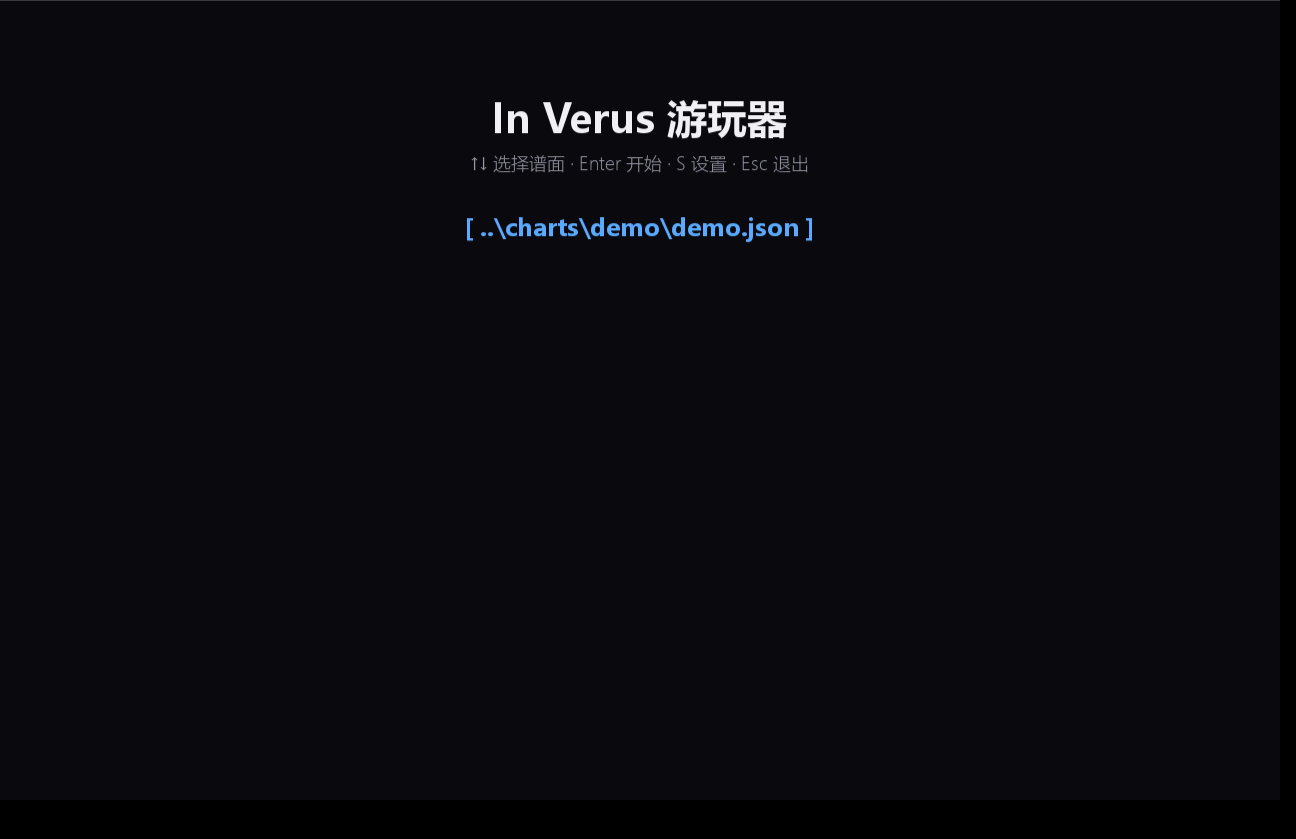
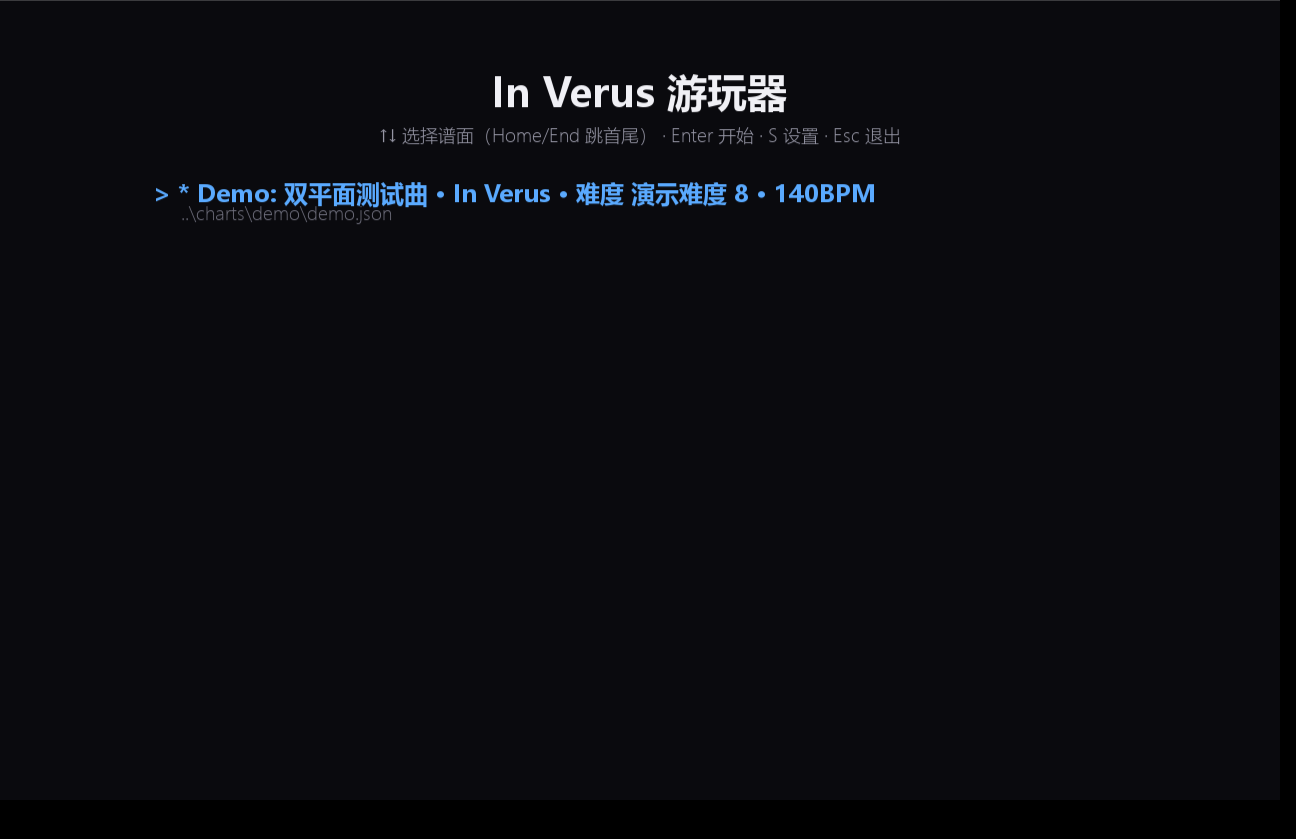
feat(player): 主界面显示元数据与最近打开；结算页加判定百分比明细
- 主界面每条谱面显示「标题 · 艺术家 · 难度 · 初始 BPM」+ 相对路径；
  条目多时窗口内翻页（↑↓ / Home / End）；最近打开的 8 张排最前并带 * 标记
  （PLAYER_SETTINGS.recent，去重 + 上限 8）
- 结算页在分数下方显示「最大连击」「判定数 N / 总数」以及每种判定占
  总判定数的百分比（按要求仍不显示总准度）
- 菜单里的 ▶/★ 换成字体一定有的 >/* （之前显示成方框）
- 测试 290 项全绿；截图刷新

Changed region(s): [[0.1235, 0.093, 0.7099, 0.3099]]

diff --git a/src/rhythm_editor/game/app.py b/src/rhythm_editor/game/app.py
@@ -102,6 +102,8 @@ class PlayerApp:
         self.audio = AudioPlayer()
         self.root = os.path.dirname(os.path.dirname(os.path.dirname(os.path.abspath(__file__))))
         self.paths = list(paths or []) or chart_files(self.root)
+        self._info_cache: dict = {}
+        self._rebuild_entries()
         self.selected = 0
         self.state = "menu"
         self.paused = False
@@ -172,6 +174,8 @@ class PlayerApp:
         elif event.key in (pygame.K_DOWN, pygame.K_UP) and self.paths:
             step = 1 if event.key == pygame.K_DOWN else -1
             self.selected = (self.selected + step) % len(self.paths)
+        elif event.key in (pygame.K_HOME, pygame.K_END) and self.paths:
+            self.selected = 0 if event.key == pygame.K_HOME else len(self.paths) - 1
         elif event.key in (pygame.K_RETURN, pygame.K_KP_ENTER) and self.paths:
             self._enter_loading()
         elif event.key == pygame.K_s:
@@ -185,9 +189,46 @@ class PlayerApp:
             return
         self.chart = chart
         self.chart_path = self.paths[self.selected]
+        self._remember_recent(self.chart_path)
         self.state = "loading"
         self.timer = 0.0
         self.message = ""
+
+    # ------------------------------------------------------------ 谱面列表
+    def _chart_info(self, path: str):
+        """谱面的 (标题, 艺术家, 难度名+等级, 初始 BPM)；读不出来就退回文件名。"""
+        info = self._info_cache.get(path)
+        if info is not None:
+            return info
+        try:
+            chart, _raw = load_chart(path)
+            meta = chart.metadata
+            info = (
+                meta.title or os.path.basename(path),
+                meta.artist or "未知艺术家",
+                f"{meta.difficulty_name} {meta.difficulty_level}".strip(),
+                chart.timing.bpm_at(0.0),
+            )
+        except Exception:                       # pragma: no cover - 依赖外部文件
+            info = (os.path.basename(path), "（无法读取）", "-", 0.0)
+        self._info_cache[path] = info
+        return info
+
+    def _rebuild_entries(self) -> None:
+        """最近打开的谱面排在前面，其余按路径排序。"""
+        recent = [p for p in self.settings.recent if p in self.paths]
+        rest = [p for p in self.paths if p not in recent]
+        self.paths = recent + rest
+
+    def _remember_recent(self, path: str) -> None:
+        recent = [p for p in self.settings.recent if p != path]
+        recent.insert(0, path)
+        self.settings.recent = recent[:8]
+        psettings.save_settings(self.settings)
+        chosen = self.paths[self.selected] if self.paths else path
+        self._rebuild_entries()
+        if chosen in self.paths:
+            self.selected = self.paths.index(chosen)
 
     # ------------------------------------------------------------ 设置
     SETTING_ROWS = (
@@ -421,15 +462,32 @@ class PlayerApp:
             self._draw_result()
 
     def _draw_menu(self) -> None:
-        self.center_text("In Verus 游玩器", 90, self.f_big, WHITE)
-        self.center_text("↑↓ 选择谱面 · Enter 开始 · S 设置 · Esc 退出", 150, self.f_small, DIM)
+        self.center_text("In Verus 游玩器", 64, self.f_big, WHITE)
+        self.center_text("↑↓ 选择谱面（Home/End 跳首尾） · Enter 开始 · S 设置 · Esc 退出", 122, self.f_small, DIM)
         if not self.paths:
             self.center_text("没有找到谱面（先往 charts/ 放一张 .json）", 260, self.f_mid, DIM)
-        for index, path in enumerate(self.paths[:14]):
-            name = os.path.relpath(path, self.root)
+        # 只显示选中项附近的若干行（谱面很多时翻页显示）
+        window = 9
+        start = max(0, min(self.selected - window // 2, max(0, len(self.paths) - window)))
+        for offset, index in enumerate(range(start, min(len(self.paths), start + window))):
+            path = self.paths[index]
+            title, artist, difficulty, bpm = self._chart_info(path)
             chosen = index == self.selected
-            label = ("[ " + name + " ]") if chosen else ("  " + name + "  ")
-            self.center_text(label, 210 + index * 30, self.f_mid, ACCENT if chosen else DIM)
+            color = ACCENT if chosen else DIM
+            marker = "> " if chosen else "  "
+            star = "* " if path in self.settings.recent else ""
+            self.text(
+                f"{marker}{star}{title} · {artist} · 难度 {difficulty} · {bpm:.0f}BPM",
+                (self.w * 0.12, 176 + offset * 46),
+                self.f_mid,
+                color,
+            )
+            self.text(
+                os.path.relpath(path, self.root),
+                (self.w * 0.12 + 28, 200 + offset * 46),
+                self.f_small,
+                (110, 110, 124) if chosen else (86, 86, 96),
+            )
         if self.message:
             self.center_text(self.message, self.h - 70, self.f_small, (240, 120, 120))
 
@@ -755,10 +813,18 @@ class PlayerApp:
         counts = self.judge.counts
         self.text(f"分数：{self.judge.score}", (half + 46, 140), self.f_big, (255, 226, 120))
         self.text(f"最大连击：{self.judge.max_combo}", (half + 46, 196), self.f_mid, WHITE)
+        total = max(1, self.judge.total_notes)
+        self.text(
+            f"判定数：{self.judge.judged_notes} / {self.judge.total_notes}",
+            (half + 46, 226),
+            self.f_small,
+            DIM,
+        )
         for index, grade in enumerate(GRADES):
+            share = counts[grade] / total * 100.0
             self.text(
-                f"{grade}：{counts[grade]}",
-                (half + 46, 250 + index * 34),
+                f"{grade}：{counts[grade]}（{share:.1f}%）",
+                (half + 46, 258 + index * 34),
                 self.f_mid,
                 GRADE_COLORS[grade],
             )

diff --git a/src/rhythm_editor/game/settings.py b/src/rhythm_editor/game/settings.py
@@ -30,6 +30,7 @@ class PlayerSettings:
     unbounded_mouse: bool = False         # 无界鼠标：实际位置即判定位置
     music_volume: float = 1.0
     hit_volume: float = 0.6
+    recent: List[str] = field(default_factory=list)     # 最近打开的谱面（最多 8 条）
 
     def normalize(self) -> None:
         self.keys = [
@@ -45,6 +46,12 @@ class PlayerSettings:
         self.music_volume = min(1.0, max(0.0, float(self.music_volume)))
         self.hit_volume = min(1.0, max(0.0, float(self.hit_volume)))
         self.player_name = (self.player_name or "Player")[:24]
+        unique: List[str] = []
+        for path in self.recent:
+            text = str(path)
+            if text and text not in unique:
+                unique.append(text)
+        self.recent = unique[:8]
 
     def to_dict(self) -> Dict[str, object]:
         self.normalize()
@@ -64,6 +71,7 @@ class PlayerSettings:
             unbounded_mouse=bool(data.get("unbounded_mouse", False)),
             music_volume=float(data.get("music_volume", 1.0)),
             hit_volume=float(data.get("hit_volume", 0.6)),
+            recent=list(data.get("recent", [])),  # type: ignore[arg-type]
         )
         obj.normalize()
         return obj

diff --git a/tests/test_game_app.py b/tests/test_game_app.py
@@ -116,6 +116,18 @@ class PlayerAppSmokeTests(unittest.TestCase):
         app._toggle_pause()
         self.assertFalse(app.paused)
 
+    def test_chart_list_shows_metadata_and_recent(self) -> None:
+        """主界面列出元数据；打开过的谱面进入「最近」并排在前面。"""
+        app = self.app
+        path = app.paths[0]
+        title, artist, difficulty, bpm = app._chart_info(path)
+        self.assertTrue(title)
+        self.assertGreater(bpm, 0.0)
+        app._enter_loading()
+        self.assertEqual(app.settings.recent[0], path)
+        app._draw_menu()          # 列表 + 元数据渲染不抛异常
+        self.assertEqual(app.paths[0], path, "最近打开应排在前面")
+
 
 if __name__ == "__main__":
     unittest.main()

diff --git a/tests/test_game_settings.py b/tests/test_game_settings.py
@@ -53,6 +53,15 @@ class PlayerSettingsTests(unittest.TestCase):
                 handle.write("{ 坏文件")
             self.assertEqual(PS.load_settings(path).player_name, "Player")
 
+    def test_recent_list_is_unique_and_capped(self) -> None:
+        s = PS.PlayerSettings(recent=[f"chart{i}.json" for i in range(12)])
+        s.normalize()
+        self.assertEqual(len(s.recent), 8)
+        self.assertEqual(s.recent[0], "chart0.json")
+        s2 = PS.PlayerSettings(recent=["a.json", "a.json", "", "b.json"])
+        s2.normalize()
+        self.assertEqual(s2.recent, ["a.json", "b.json"])
+
 
 if __name__ == "__main__":
     unittest.main()

diff --git a/docs/VERIFICATION.md b/docs/VERIFICATION.md
@@ -113,7 +113,7 @@ python tools/check_audio.py
 
 | 项目 | 命令 | 结果 |
 | --- | --- | --- |
-| 单元测试（含 Tk 画布冒烟测试、应用级测试与游玩器测试） | `python -m unittest discover -s tests -t .` | Ran 288 tests — **OK** |
+| 单元测试（含 Tk 画布冒烟测试、应用级测试与游玩器测试） | `python -m unittest discover -s tests -t .` | Ran 290 tests — **OK** |
 | 需求验收清单 | `python tools/acceptance.py` | 18 项全部 `[OK ]`，结论：全部通过（含游玩器 4 项） |
 | 音频后端 | `python tools/check_audio.py` | 9 项全部 `[OK ]`（pygame.mixer 真实播放，延迟补偿正确） |
 | 示例谱面生成 | `python run_editor.py --make-demo` | 生成 `charts/demo/demo.json`（6K 32 / 区域 3 / 滑键 6 / 点击按键 4 / 4 个速度组） |
@@ -209,8 +209,8 @@ python tools/check_audio.py
 | `tests/test_global_settings.py`（4 条） | **全局设置**：读写往返、损坏文件回退默认值、谱面文件不再包含 `editor` 段、老谱面的 `editor` 段只迁移一次 |
 | `tests/test_game_judge.py`（24 条） | 游玩器判定：EXACT/Exact/Near/Break 窗口、空敲无惩罚、一次按键只判一个、滑键吸附最好等级、空域半拍区间、长按“抬起事件 + 末 50ms 宽限（跨区间）”、多轨长按“所有行同时抬起才算抬起”、准度与分数公式、连击与最大连击 |
 | `tests/test_game_scene.py`（8 条） | 游玩器 3D 布局：1 单位 = 鼠标合法区宽 = 6K 中间四轨；鼠标平面高 0.4；两条判定线位置；近大远小；起点在屏幕上方 |
-| `tests/test_game_settings.py`（6 条） | 游玩器设置：默认键位、范围夹取、键位补齐、全局读写与损坏回退 |
-| `tests/test_game_app.py`（5 条） | 游玩器 GUI 冒烟（headless）：主界面 → 加载 → 游玩 → 结算、鼠标映射、设置全局保存、轨道高亮与判定飘字、音量与暂停 |
+| `tests/test_game_settings.py`（7 条） | 游玩器设置：默认键位、范围夹取、键位补齐、全局读写与损坏回退、最近打开列表去重与上限 |
+| `tests/test_game_app.py`（6 条） | 游玩器 GUI 冒烟（headless）：主界面 → 加载 → 游玩 → 结算、鼠标映射、设置全局保存、轨道高亮与判定飘字、音量与暂停、谱面列表元数据与最近打开 |
 | `tests/test_editor_smoke.py::test_scrollbar_drag_round_trip_keeps_thumb_under_cursor` | 回归：滚动条滑块拖动不跳段（把滑块放到 f 后读回仍是 `(f, f+窗口占比)`） |
 | `tests/test_audio_rate.py`（16 条） | 倍速（重采样，**变速变调**）：长度随倍率伸缩、0.5x 时频率减半（过零率）、静音时钟跟随倍速、倍速夹取、**负延迟**的 heard 位置、延迟范围、**立体声也能慢放**、**分窗口首尾相接**、**调度连续不断音**（回归：pygame 只播一个排队块）、**打开谱面后第一次播放用真实后端**（回归）、**播放中改倍速自动暂停**并保持位置 |
 | `tests/test_app_flow.py::test_rate_buttons_step_and_clamp` | 倍速按钮 ±0.1x 与 0.1~1.0x 夹取，标签同步 |

diff --git a/CHANGELOG.md b/CHANGELOG.md
@@ -4,6 +4,11 @@
 
 ### 游玩器 GUI（可运行）
 
+* **主界面升级**：每条谱面显示 **标题 · 艺术家 · 难度 · 初始 BPM** 与相对路径；
+  谱面多时窗口内翻页显示（↑↓ / Home / End）；**最近打开的 8 张排在最前并带 `*`**
+  （记录在 `player.json`）。
+* **结算明细**：分数下方显示「最大连击」「判定数 N / 总数」以及每个判定占
+  **总判定数的百分比**（按需求不显示总准度）。
 * **连击**：命中（EXACT / Exact / Near）+1、Break 清零，记录最大连击；
   HUD 右上显示「连击 N（最大 M）」，连击 ≥5 时判定面上方显示大号数字；
   结算页新增「最大连击」。
